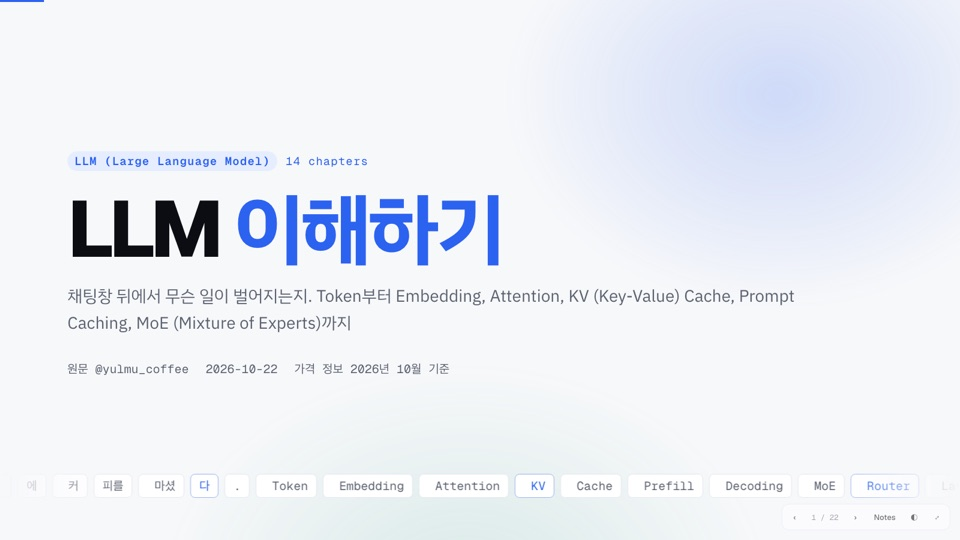
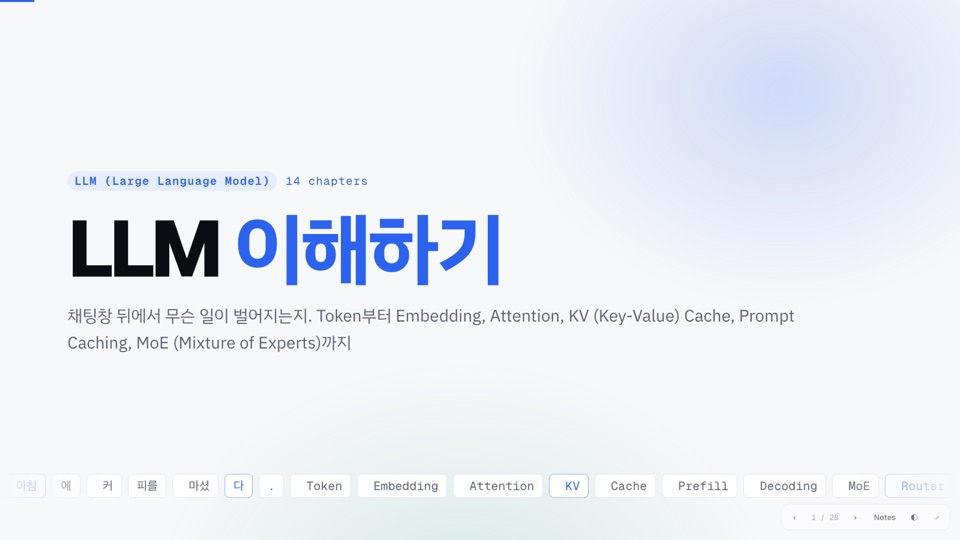
LLM deck: drop cover meta line, noun-style titles, home button
- Remove source/date/pricing line from the cover
- Rewrite slide titles that ended in ~다 as noun phrases
- Add a home button on every slide after the cover that jumps to slide 1

Changed region(s): [[0.0625, 0.2667, 0.8438, 0.7111], [0.2812, 0.8889, 0.9688, 0.9185], [0.0625, 0.8889, 0.25, 0.9185]]

diff --git a/llm-slides/index.html b/llm-slides/index.html
@@ -394,6 +394,9 @@ td.note { color: var(--muted); font-size: 19px; }
 .rail i { display: block; height: 100%; width: 100%; background: var(--accent); transform-origin: left; transform: scaleX(var(--p, 0)); transition: transform .6s var(--ease); }
 
 /* chrome */
+.home { position: absolute; top: 74px; right: 112px; width: 50px; height: 50px; border-radius: 14px; border: 1px solid var(--line); background: var(--surface); color: var(--muted); display: grid; place-items: center; cursor: pointer; box-shadow: var(--shadow); padding: 0; transition: color .2s, border-color .2s, transform .2s; z-index: 2; }
+.home:hover { color: var(--accent); border-color: var(--accent); transform: translateY(-2px); }
+.home svg { width: 24px; height: 24px; }
 .foot { position: absolute; left: 112px; bottom: 44px; font-family: var(--mono); font-size: 15px; color: var(--muted); }
 #progress { position: fixed; left: 0; right: 0; top: 0; height: 3px; background: var(--accent); transform-origin: left; transform: scaleX(0); transition: transform .35s; z-index: 5; }
 #controls { position: fixed; right: max(16px, env(safe-area-inset-right, 0px)); bottom: calc(16px + env(safe-area-inset-bottom, 0px)); display: flex; gap: 6px; align-items: center; z-index: 6;
@@ -423,7 +426,6 @@ td.note { color: var(--muted); font-size: 19px; }
   <div class="kicker"><b>LLM (Large Language Model)</b>14 chapters</div>
   <h1 style="margin-top:28px">LLM <em>이해하기</em></h1>
   <p class="lead">채팅창 뒤에서 무슨 일이 벌어지는지. Token부터 Embedding, Attention, KV (Key-Value) Cache, Prompt Caching, MoE (Mixture of Experts)까지</p>
-  <div class="meta"><span>원문 @yulmu_coffee</span><span>2026-10-22</span><span>가격 정보 2026년 10월 기준</span></div>
   <div class="ticker" aria-hidden="true"><div class="ticker-in" id="ticker"></div></div>
 </section>
 
@@ -464,7 +466,7 @@ td.note { color: var(--muted); font-size: 19px; }
 
 <section class="slide" data-notes="BPE(Byte Pair Encoding)는 자주 붙어 나오는 문자 쌍을 반복해서 합쳐 Vocabulary를 만듭니다. 한국어 비율은 Tokenizer마다 크게 다르니 직접 확인. strawberry의 r 개수를 헤매는 것도 Token 단위로 보기 때문이라고 흔히 설명합니다.">
   <div class="kicker"><b>02</b>입력 단위</div>
-  <h2>모델은 글자가 아니라 <em>Token</em>을 읽습니다</h2>
+  <h2>모델이 읽는 단위, <em>Token</em></h2>
   <div class="body cols wide-r">
     <div class="txt">
       <p>Tokenizer가 글을 조각으로 자르고 번호를 붙입니다. 자주 나오는 덩어리는 Token 하나, 드문 단어는 여러 조각.</p>
@@ -482,7 +484,7 @@ td.note { color: var(--muted); font-size: 19px; }
 
 <section class="slide" data-notes="OpenAI 안내 기준 영어 1 Token은 약 4글자, 0.75단어. 한국어는 같은 내용에 Token이 더 드는 편입니다.">
   <div class="kicker"><b>02</b>입력 단위</div>
-  <h2>Token은 글자 수와 다릅니다</h2>
+  <h2>Token과 글자 수의 차이</h2>
   <div class="body">
     <div class="stats">
       <div class="stat hl"><b data-count>≈ 4글자</b><span>영어 text 1 Token<br>(OpenAI 안내)</span></div>
@@ -564,7 +566,7 @@ td.note { color: var(--muted); font-size: 19px; }
 
 <section class="slide" data-notes="은행나무의 은행과 은행 대출의 은행을 어떻게 구분할까? 2017년 「Attention Is All You Need」. 각 Token이 다른 Token을 둘러보고 누가 중요한지 점수를 매겨 정보를 섞습니다. 비유: 회의실에서 궁금한 걸 들고(Q) 아는 사람(K)에게 귀 기울여 그 말(V)을 받아 적기.">
   <div class="kicker"><b>06</b>문맥</div>
-  <h2>Attention: 각 Token이 <em>Query·Key·Value</em>를 만든다</h2>
+  <h2>Attention: 각 Token의 <em>Query·Key·Value</em></h2>
   <div class="body cols" style="grid-template-columns:minmax(0,.7fr) minmax(0,1.3fr);gap:44px">
     <div>
       <div class="qlist">
@@ -636,7 +638,7 @@ td.note { color: var(--muted); font-size: 19px; }
 
 <section class="slide" data-notes="Block = Attention(Token끼리 정보 교환) + Feed-forward(각자 소화). 이걸 쌓은 게 Layer. 원래 Transformer는 Encoder+Decoder 번역기였고, GPT 계열은 Decoder만 쌓았습니다. ChatGPT, Claude, Llama 대부분이 Decoder-only.">
   <div class="kicker"><b>07</b>구조</div>
-  <h2>Decoder의 규칙: <em>앞만 본다</em></h2>
+  <h2>Decoder의 규칙: <em>앞만 보기</em></h2>
   <div class="body cols">
     <div class="txt">
       <p style="font-size:22px">Attention(Token끼리 정보 교환) → Feed-forward(각자 소화) Block을 층층이 쌓은 것이 Layer. 아래층은 단순한 pattern을, 위층으로 갈수록 더 추상적인 관계를 다룬다고 흔히 설명합니다.</p>
@@ -732,7 +734,7 @@ td.note { color: var(--muted); font-size: 19px; }
 
 <section class="slide" data-notes="InstructGPT 논문이 정리한 RLHF 과정입니다. 모델이 쓴 답변 여러 개를 사람이 순위 매기고, 그 선호를 학습한 Reward Model을 만든 뒤, Reward 점수가 높아지도록 원래 모델을 강화학습으로 조정합니다. InstructGPT는 이 강화학습에 PPO(Proximal Policy Optimization)를 썼습니다. 요즘은 RLHF 외에도 다양한 Post-training 기법이 쓰이며, 각 회사가 구체적 방법을 모두 공개하지는 않습니다.">
   <div class="kicker"><b>08</b>Post-training · RLHF 자세히</div>
-  <h2>RLHF는 <em>네 걸음</em>으로 돌아갑니다</h2>
+  <h2>RLHF의 <em>네 걸음</em></h2>
   <div class="body">
     <div class="rl4">
       <div class="rlc">
@@ -840,7 +842,7 @@ td.note { color: var(--muted); font-size: 19px; }
 
 <section class="slide" data-notes="가장 흔한 오해. 대화 중에 모델이 학습되는 게 아닙니다. 기억하는 것처럼 보이는 건 대화 내용 전체가 매번 입력(Context)으로 다시 들어가기 때문입니다. 대화 기록이 service 개선용 학습 data로 쓰일지는 각 service 정책의 문제이고, 그 대화 순간에 Dial이 바뀌지는 않습니다. 지난 글의 Mac에서 local로 돌린다는 이야기도 전부 Inference 이야기였습니다.">
   <div class="kicker"><b>09</b>흔한 오해</div>
-  <h2>대화 중에 모델은 <em>배우지 않습니다</em></h2>
+  <h2>대화 중에는 <em>배우지 않는</em> 모델</h2>
   <div class="body cols" style="grid-template-columns:minmax(0,.8fr) minmax(0,1.2fr);gap:44px">
     <div class="txt">
       <p>모델이 내 말을 기억하는 것처럼 보이는 건, <strong>대화 내용 전체가 매번 입력(Context)으로 다시 들어가기 때문</strong>입니다.</p>
@@ -911,7 +913,7 @@ td.note { color: var(--muted); font-size: 19px; }
 
 <section class="slide" data-notes="Request가 끝나면 Note는 보통 버려집니다. 하지만 많은 Request는 System Prompt, Tool 정의, 참고 문서가 똑같이 앞에 붙습니다. 그 Prefix의 KV Tensor를 보관해 다음 Request에서 꺼내 씁니다. OpenAI, vLLM 모두 같은 원리. Anthropic은 Cache 지점까지 100% 같아야 한다고 씁니다.">
   <div class="kicker"><b>12</b>비용</div>
-  <h2>Prompt Caching: <em>앞부분이 같으면</em> Note를 빌려 쓴다</h2>
+  <h2>Prompt Caching: <em>앞부분이 같으면</em> Note 재사용</h2>
   <div class="body">
     <div class="panel prefix">
       <div class="prow"><span>Request A</span><div class="blocks"><i class="hit si" style="flex:2">Tools</i><i class="hit si" style="flex:3">System</i><i class="hit si" style="flex:3">참고 문서</i><i class="miss si" style="flex:1.4">질문 A</i></div><span class="res ok pop">Cache Write</span></div>
@@ -1054,7 +1056,12 @@ td.note { color: var(--muted); font-size: 19px; }
   const every = (fn, ms) => timers.push(setInterval(fn, ms));
   const clearTimers = () => { timers.forEach(t => { clearTimeout(t); clearInterval(t); }); timers = []; };
 
-  slides.forEach(s => { if (!s.classList.contains('title-slide')) s.insertAdjacentHTML('beforeend', '<div class="foot">LLM 이해하기</div>'); });
+  const HOME = '<button class="home" type="button" aria-label="첫 장으로" title="첫 장으로"><svg viewBox="0 0 24 24" fill="none" stroke="currentColor" stroke-width="2" stroke-linecap="round" stroke-linejoin="round" aria-hidden="true"><path d="M3 10.5 12 3l9 7.5"/><path d="M5 9.5V20a1 1 0 0 0 1 1h4v-6h4v6h4a1 1 0 0 0 1-1V9.5"/></svg></button>';
+  slides.forEach((s, i) => {
+    if (!s.classList.contains('title-slide')) s.insertAdjacentHTML('beforeend', '<div class="foot">LLM 이해하기</div>');
+    if (i > 0) s.insertAdjacentHTML('beforeend', HOME);
+  });
+  stage.addEventListener('click', e => { if (e.target.closest('.home')) go(0); });
 
   // build dynamic pieces before tagging
   const tokens = ['오늘', ' 아침', '에', ' 커', '피를', ' 마셨', '다', '.', ' Token', ' Embedding', ' Attention', ' KV', ' Cache', ' Prefill', ' Decoding', ' MoE', ' Router', ' Layer'];
